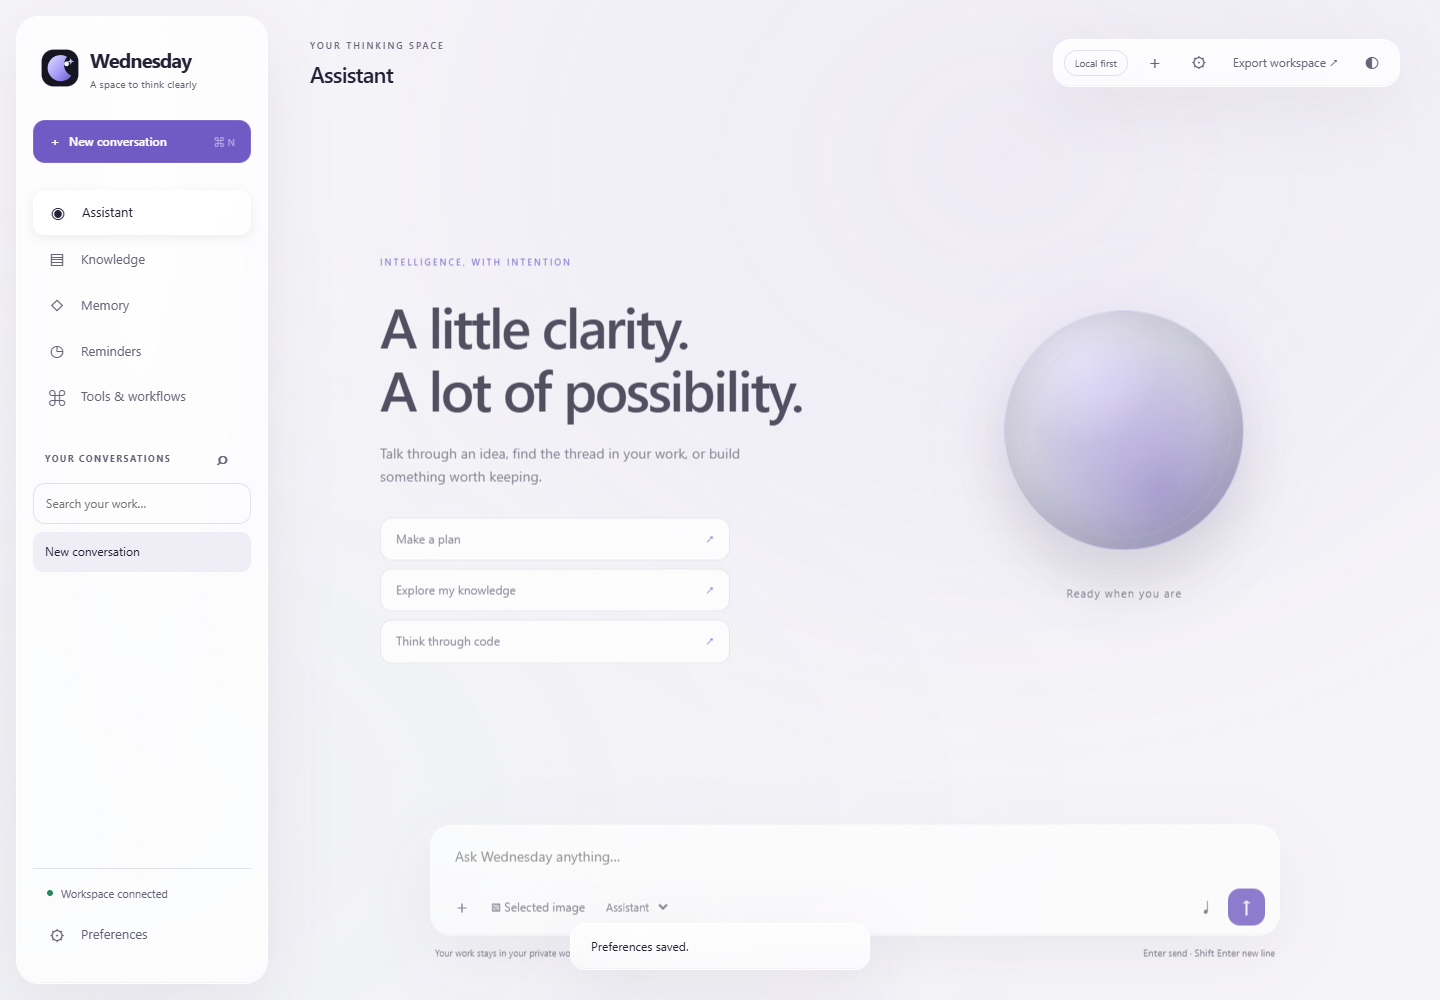
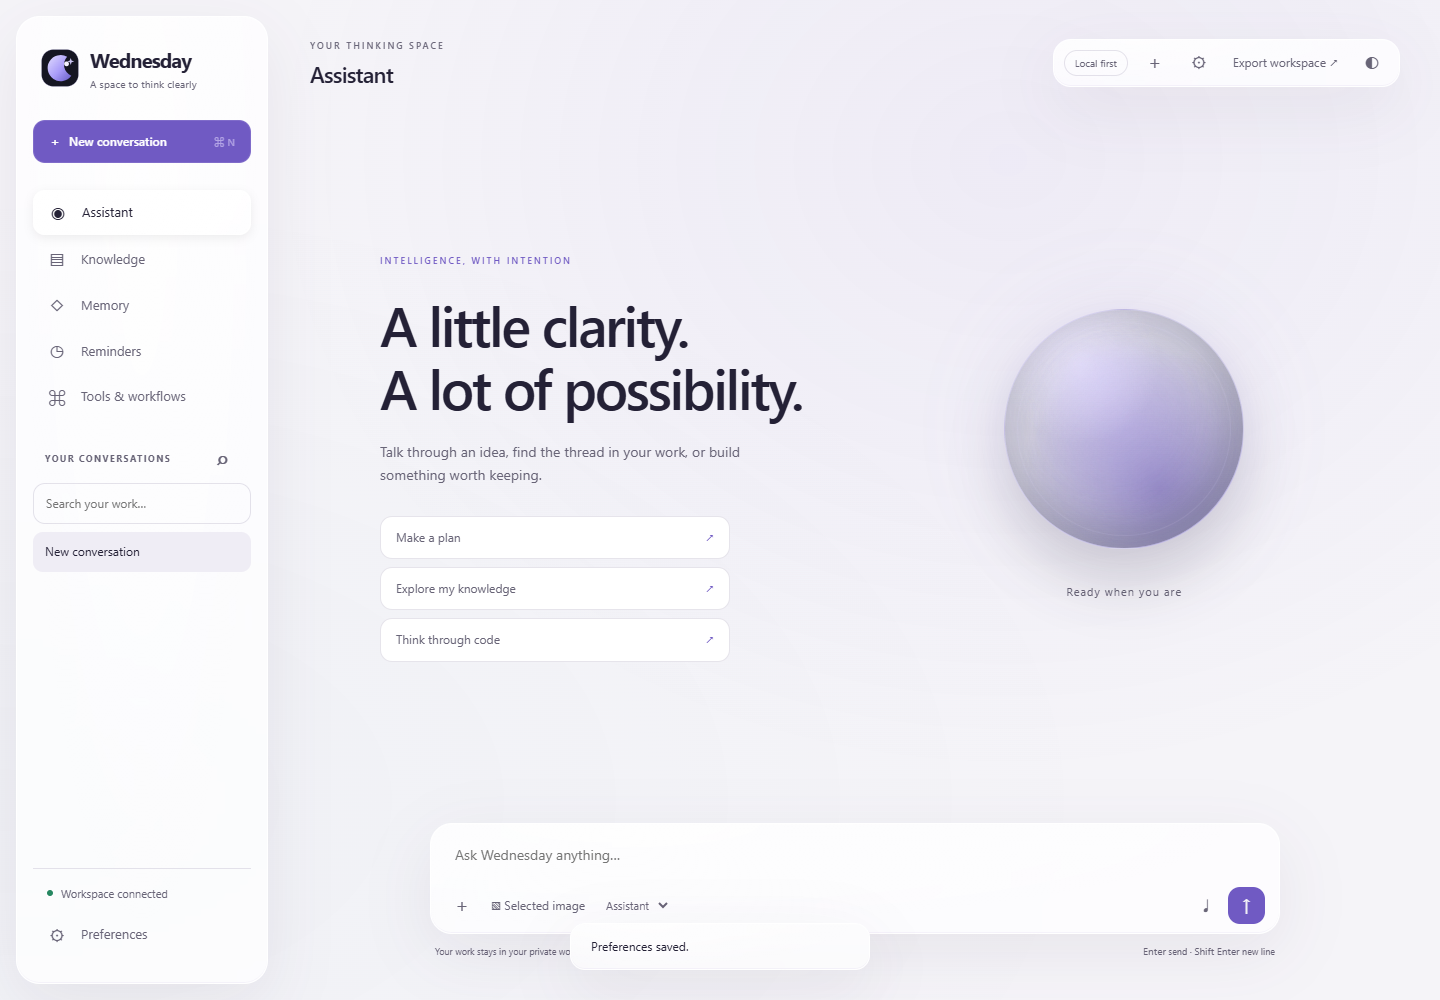
updates

diff --git a/docs/FULL-AUDIT-2026-10-05.md b/docs/FULL-AUDIT-2026-10-05.md
@@ -10,6 +10,8 @@ Manual primary journey: launch core → save/edit memory → import/search notes
 
 Appearance: graphite or pearl with silver/violet glass rail, action island, sheets and composer, calm typography and an original orb. Actual source/native/package captures are copied into `docs/screenshots`; browser and editor records under `test-results` retain exact acceptance provenance.
 
+October 6 continuation: the real browser journey passed again against a separate isolated workspace in demo mode, with zero page errors. Its ten recorded checks cover owned memory/reload, document upload, reminder cancellation, tool/workflow receipts, persistent comfort settings, honest missing-provider errors, actual JSON export, 390px layouts and second-owner isolation. Refreshed snapshots fast-forward only capture-time animations to show settled visual states. Application motion and packaged runtime code are unchanged. Exact provenance is in `test-results/browser/acceptance.json`; no paid provider or real microphone call was made.
+
 October5 Ollama was unavailable and the earlier local CLI/model manifests were absent. Start/install your chosen model explicitly for fresh live inference. Optional wake-word, Whisper/Coqui/vision engines, cloud keys, hardware, notification interaction, signed installer acceptance and other OS packages remain manual/platform gates. No invented performance/accuracy/user/revenue measurements. Public deployment is deferred.
 
 Repository hygiene: removed `backend/.env` from the Git index while retaining the ignored private local file and all runtime configuration. It is excluded from release packages. Any credentials previously present in Git history require account-owner rotation before source publication; no secret values were printed or changed, and history was not rewritten.
